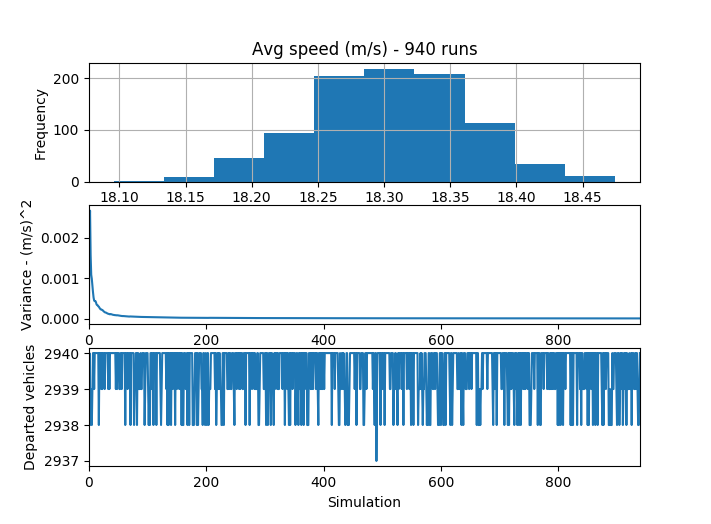
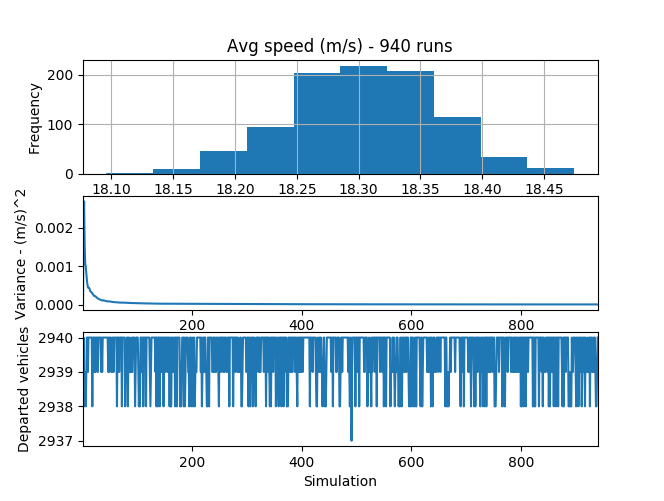
Parallel sim. plots: fix index

diff --git a/lab2/parallel/plot.py b/lab2/parallel/plot.py
@@ -10,7 +10,7 @@ import matplotlib.pyplot as plt
 csv_file = sys.argv[1]
 df = pd.read_csv(csv_file)
 df['sim'] = df.index + 1
-df.set_index('sim')
+df.set_index('sim', inplace=True)
 
 #Variance2 = Variance of the sample mean
 variances = []
